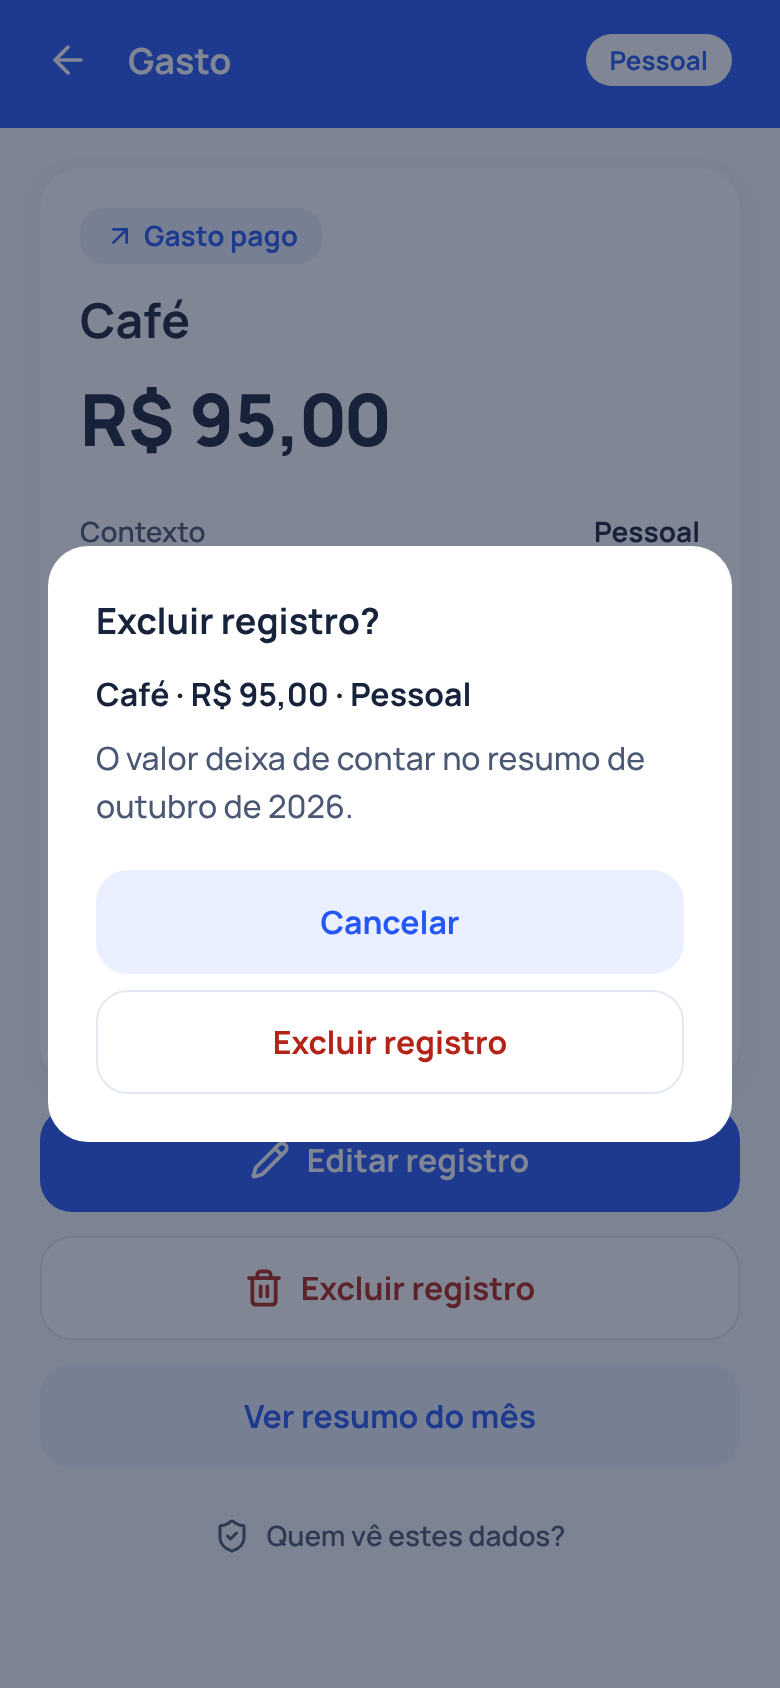
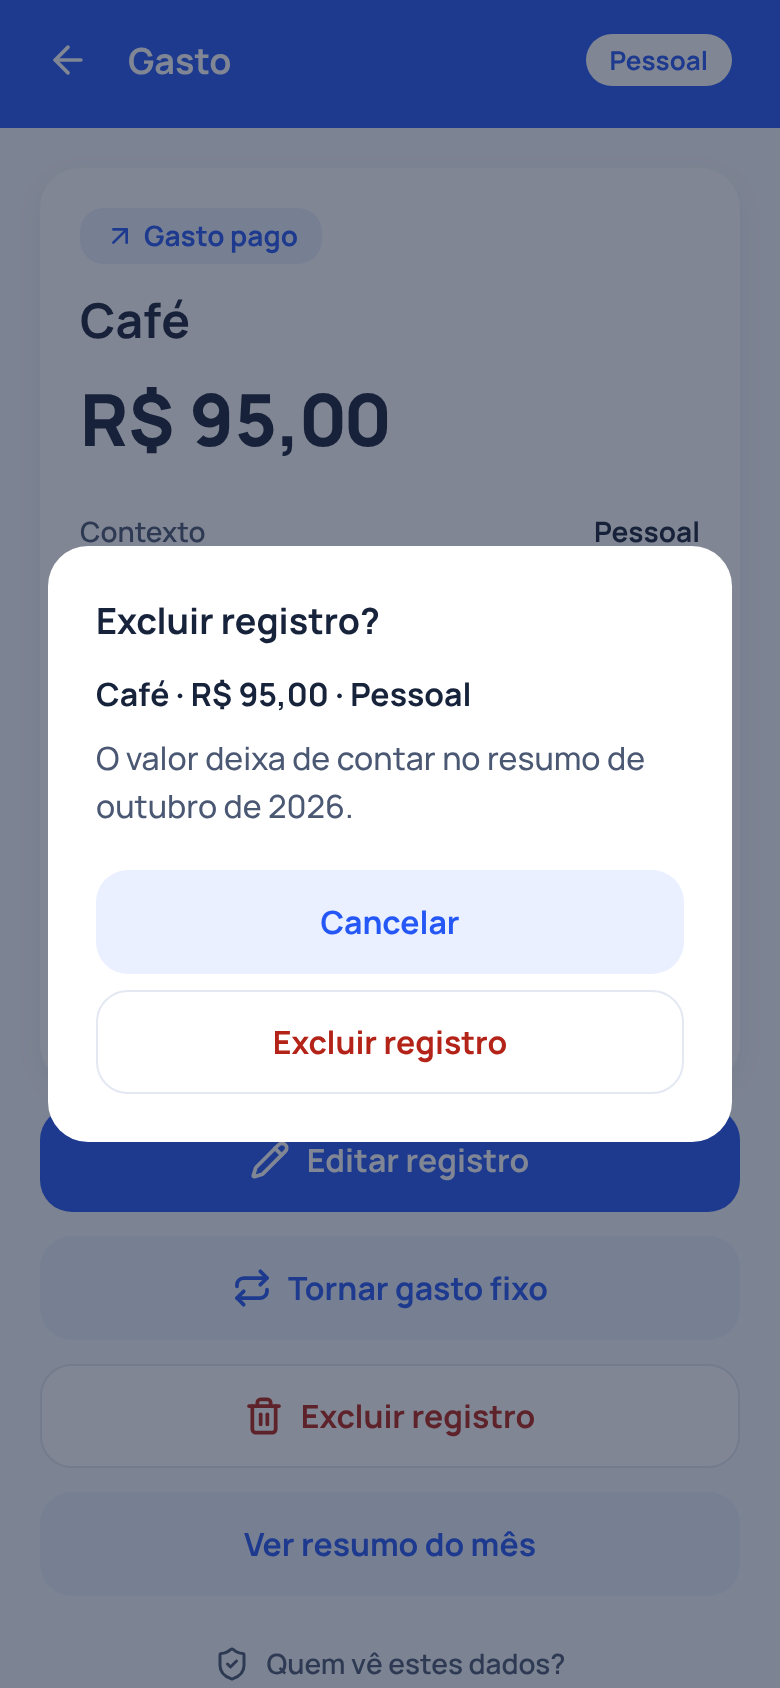
Gastos fixos e parcelamentos: construção concluída (antes da revisão)
Séries mensais e parceladas sobre as contas a pagar: migração 0003 com
geração das contas do mês anterior ao seguinte, vigências ("esta e as
próximas"), "só esta conta", encerrar, retomar e excluir; valores
estimados; revisar contas vencidas; telas de gastos fixos; demonstração
com Aluguel, Luz e Financiamento do carro (outubro continua 6.000 /
3.900 / 2.100 e 650 a pagar). Testes: core 148, banco (10 a 40), API 36
e web 325 nas duas configurações de movimento.

Claude-Session: https://claude.ai/code/session_01DJ8P9ioDFqVN7dR69gHQEe

diff --git a/scripts/e2e-web.js b/scripts/e2e-web.js
@@ -76,7 +76,7 @@ const ok = (name, cond, extra='') => { results.push([cond ? 'OK ' : 'FALHOU', na
     const cut = await p.evaluate(() => [...document.querySelectorAll('div[dir="auto"], span')].filter((e) => /R\$/.test(e.textContent || '') && e.children.length === 0 && e.getBoundingClientRect().width > 0 && e.scrollWidth > e.clientWidth + 1).map((e) => e.textContent));
     ok(`${prefix}: nenhum valor em reais cortado`, cut.length === 0, cut.join(' | '));
     // "R$" (e "≈") nunca ficam sozinhos no fim da linha: o espaço até o valor não quebra.
-    const loose = await p.evaluate(() => [...document.querySelectorAll('div[dir="auto"], span')].filter((e) => e.getBoundingClientRect().width > 0 && [...e.childNodes].some((n) => n.nodeType === 3 && /(R\$|≈) (\d|$)/.test(n.textContent))).map((e) => e.textContent.slice(0, 40)));
+    const loose = await p.evaluate(() => [...document.querySelectorAll('div[dir="auto"], span')].filter((e) => e.getBoundingClientRect().width > 0 && [...e.childNodes].some((n) => n.nodeType === 3 && /R\$ (\d|$)|≈ /.test(n.textContent))).map((e) => e.textContent.slice(0, 40)));
     ok(`${prefix}: "R$" junto do valor`, loose.length === 0, loose.slice(0, 3).join(' | '));
     ok(`${prefix}: alvos de toque ≥ 44 px`, small.length === 0, small.join(' | '));
     const avatarOut = await p.evaluate(() => [...document.querySelectorAll('[aria-label^="Conta: perfil"]')].filter((e) => { const b = e.getBoundingClientRect(); return b.width > 0 && (b.left < -0.5 || b.right > window.innerWidth + 0.5); }).length);
@@ -515,6 +515,7 @@ const ok = (name, cond, extra='') => { results.push([cond ? 'OK ' : 'FALHOU', na
   // Pagar hoje a Escola de novembro: o gasto conta em Pago de outubro; desfazer volta à base.
   await openToPay();
   await openRow(/^Escola, vence em 10\/11\/2026, R\$ 900,00, gasto fixo/); await waitText('Marcar como paga');
+  await waitText('Parte de: Escola · todo mês, dia 10').catch(() => {});
   ok('conta do gasto fixo: "Parte de" e "Ver gasto fixo"', (await body()).includes('Parte de: Escola · todo mês, dia 10') && (await visibleCount('button', 'Ver gasto fixo')) === 1);
   await btn('Marcar como paga').click(); await waitText('Confirmar pagamento');
   ok('pagar a Escola: valor previsto e hoje', (await field('Valor pago').inputValue()) === '900,00' && (await field('Data do pagamento').inputValue()) === '07/10/2026');
@@ -542,6 +543,8 @@ const ok = (name, cond, extra='') => { results.push([cond ? 'OK ' : 'FALHOU', na
   ok('esta e as próximas: confirma o que muda e o que não muda', (await dialogText()).includes('Vão mudar: novembro (05/11). Não mudam: outubro (paga). As contas criadas depois já seguem o novo valor.'));
   await shot('29_esta_e_as_proximas');
   await confirmIn('Aplicar'); await waitText('Gasto fixo atualizado a partir de novembro.');
+  // A conta aberta é lida de novo depois da gravação: espera a leitura nova.
+  await waitText('R$ 2.650,00').catch(() => {});
   ok('Aluguel de novembro passa a R$ 2.650,00', (await body()).includes('R$ 2.650,00'));
   await btn('Voltar').click(); await waitText('Contas em aberto com vencimento até o fim do mês');
   await waitRows('Próximos meses', (rows) => (rows ?? []).includes('Aluguel, vence em 05/11/2026, R$ 2.650,00, gasto fixo'));
@@ -550,6 +553,7 @@ const ok = (name, cond, extra='') => { results.push([cond ? 'OK ' : 'FALHOU', na
 
   // Luz de novembro: informar o valor tira "estimado"; depois, excluir só esta conta.
   await openRow(/^Luz, vence em 12\/11\/2026, cerca de R\$ 180,00, valor estimado/); await waitText('Informar o valor da conta');
+  await waitText('Parte de: Luz · todo mês, dia 12').catch(() => {});
   t = await body();
   ok('conta estimada: aviso e "Informar o valor da conta"', t.includes('Valor estimado pela referência do gasto fixo. Quando a conta chegar, informe o valor.') && t.includes('Parte de: Luz · todo mês, dia 12'));
   await shot('30_conta_estimada');
@@ -606,6 +610,7 @@ const ok = (name, cond, extra='') => { results.push([cond ? 'OK ' : 'FALHOU', na
   await openRow(/^Aluguel, Pago · 05\/09\/2026/); await waitText('Tornar gasto fixo');
   await btn('Tornar gasto fixo').click(); await waitText('Baseado no gasto de 05/09/2026');
   await waitText('Você já tem o gasto fixo Aluguel.').catch(() => {});
+  await waitText('Você já anotou o gasto Aluguel').catch(() => {});
   t = await body();
   ok('tornar gasto fixo: preenchido pelo gasto de setembro, começando em outubro', (await field('Descrição').inputValue()) === 'Aluguel' && (await field('Valor por mês').inputValue()) === '2.500,00' &&
     (await field('Dia do vencimento').inputValue()) === '5' && (await radio('Outubro (venceu em 05/10)').getAttribute('aria-checked')) === 'true' &&

diff --git a/apps/app/src/components/ui.tsx b/apps/app/src/components/ui.tsx
@@ -307,7 +307,7 @@ export function Chip({ label, selected, onPress }: { label: string; selected: bo
         onPressIn={press.onPressIn}
         onPressOut={press.onPressOut}
         style={(s) => [styles.chip, selected && styles.chipSelected, (s as { focused?: boolean }).focused && styles.focusRing]}>
-        {selected ? <Check size={16} color={colors.brand} strokeWidth={2.5} /> : null}
+        {selected ? <Check size={16} color={colors.brand} strokeWidth={2.5} style={{ flexShrink: 0 }} /> : null}
         <Txt variant="label" color={selected ? colors.brand : colors.text} style={{ flexShrink: 1 }}>
           {label}
         </Txt>
